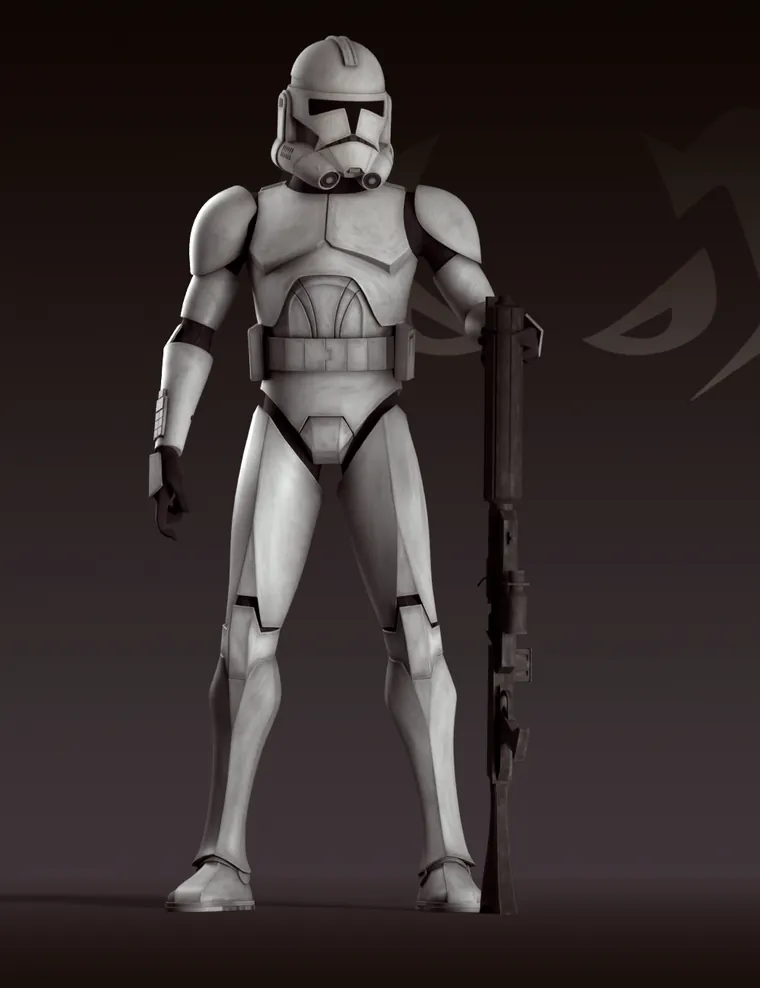
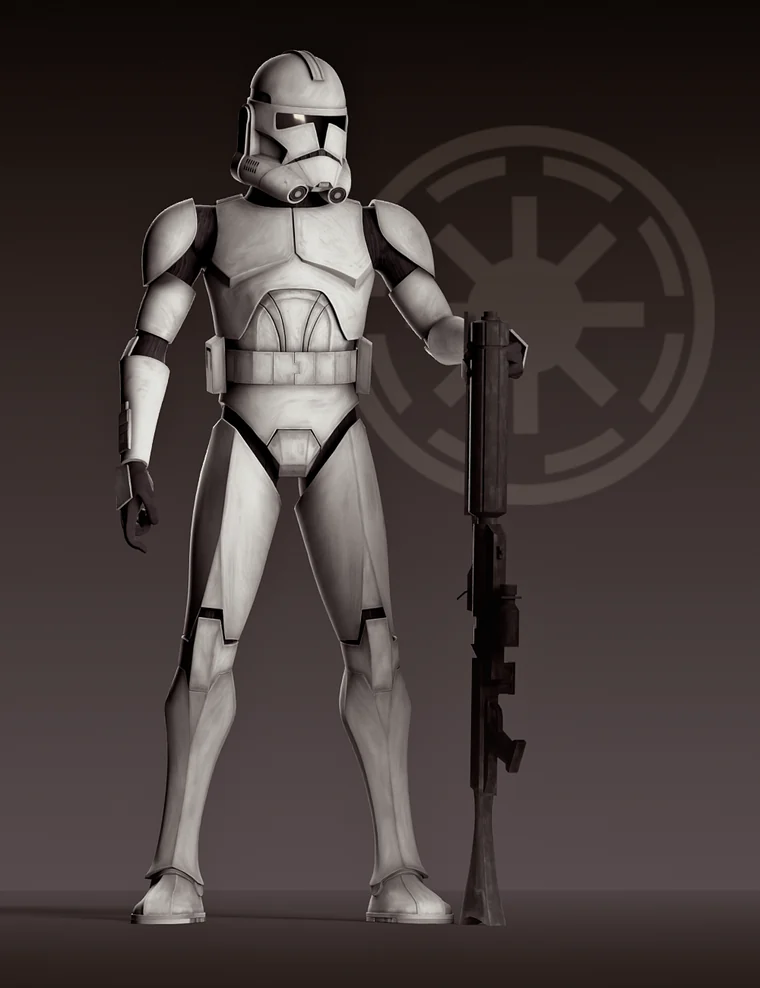
32 poses, new light and background

diff --git a/js/poses.js b/js/poses.js
@@ -1,21 +1,34 @@
 export const poses = [
   { id: 'low-ready', name: 'Low ready' },
   { id: 'rifle-down', name: 'Rifle down' },
-  { id: 'hand-on-hip', name: 'Hand on hip' },
+  { id: 'gun-across', name: 'Gun across' },
   { id: 'shoulder', name: 'Rifle on shoulder' },
-  { id: 'grounded-one', name: 'Rifle at rest' },
-  { id: 'grounded-two', name: 'Leaning on rifle' },
+  { id: 'crossed', name: 'Arms crossed' },
+  { id: 'low-hip', name: 'Gun low, hand on hip' },
   { id: 'halt', name: 'Halt signal' },
-  { id: 'comms', name: 'On comms' },
-  { id: 'datapad', name: 'Datapad' },
-  { id: 'kneel', name: 'Kneeling' },
-  { id: 'run', name: 'Running' },
-  { id: 'pistol-up', name: 'Pistol up' },
-  { id: 'dual-aim', name: 'Aiming two pistols' },
-  { id: 'dual-belly', name: 'Close quarters' },
+  { id: 'at-belt', name: 'Rifle at the belt' },
   { id: 'ready', name: 'Ready' },
   { id: 'up-across', name: 'Rifle up across' },
+  { id: 'behind-back', name: 'Hands behind back' },
+  { id: 'dual-aim', name: 'Aiming two pistols' },
+  { id: 'leaning', name: 'Leaning back' },
   { id: 'lookout', name: 'Kneeling lookout' },
   { id: 'on-floor', name: 'Rifle on the floor' },
-  { id: 'behind-back', name: 'Hands behind back' },
+  { id: 'running-in', name: 'Running in' },
+  { id: 'chest', name: 'Gun at the chest' },
+  { id: 'comms', name: 'On comms' },
+  { id: 'across', name: 'Rifle across' },
+  { id: 'kneel', name: 'Kneeling' },
+  { id: 'two-pistols', name: 'Two pistols' },
+  { id: 'pistol-up', name: 'Pistol up' },
+  { id: 'grounded-one', name: 'Rifle at rest' },
+  { id: 'run', name: 'Running' },
+  { id: 'at-hip', name: 'Rifle at the hip' },
+  { id: 'belt', name: 'Hands on belt' },
+  { id: 'hold-fist', name: 'Hold signal' },
+  { id: 'dual-belly', name: 'Close quarters' },
+  { id: 'datapad', name: 'Datapad' },
+  { id: 'run-dual', name: 'Running, two pistols' },
+  { id: 'carbine-down', name: 'Carbine down' },
+  { id: 'run-rifle', name: 'Running with a rifle' },
 ];

diff --git a/css/site.css b/css/site.css
@@ -334,7 +334,7 @@ h2 { font-size: clamp(1.9rem, 4.2vw, 3.6rem); }
 .pose {
   position: relative; cursor: pointer; border-radius: var(--r); overflow: hidden; background: var(--black-2); aspect-ratio: 1 / 1.3;
   input { position: absolute; inset: 0; margin: 0; opacity: 0; cursor: pointer; }
-  img { width: 100%; height: 100%; object-fit: cover; object-position: 50% 30%; opacity: .85; filter: brightness(1.15); transition: opacity .2s, transform .5s var(--out); }
+  img { width: 100%; height: 100%; object-fit: cover; object-position: 50% 30%; opacity: .94; transition: opacity .2s, transform .5s var(--out); }
   span { position: absolute; inset: auto 0 0; padding: 2.2rem .75rem .65rem; background: linear-gradient(#16151400, #161514d9); font-weight: 600; line-height: 1.2; }
   &:has(:checked) { box-shadow: 0 0 0 3px var(--orange); img { opacity: 1; } }
   &:has(:focus-visible) { outline: 2px solid var(--white); outline-offset: 3px; }

diff --git a/js/builder.js b/js/builder.js
@@ -105,7 +105,7 @@ export function setupBuilder() {
     for (const p of poses.slice(n, n + 8)) {
       const l = document.createElement('label');
       l.className = 'pose';
-      l.innerHTML = `<input type="radio" name="pose" value="${p.id}"><img src="assets/poses/${p.id}.webp" alt="" width="760" height="988" loading="lazy" decoding="async"><span></span>`;
+      l.innerHTML = `<input type="radio" name="pose" value="${p.id}"><img src="assets/poses/${p.id}.webp?v=2" alt="" width="760" height="988" loading="lazy" decoding="async"><span></span>`;
       l.querySelector('span').textContent = p.name;
       page.append(l);
     }
